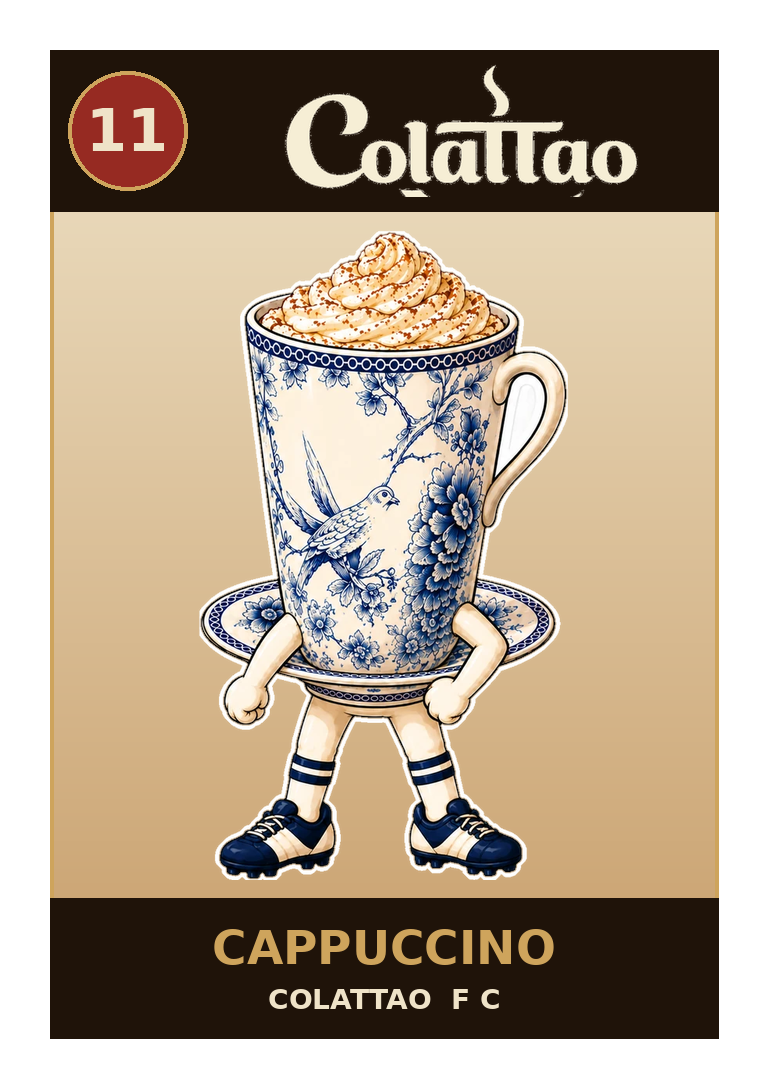
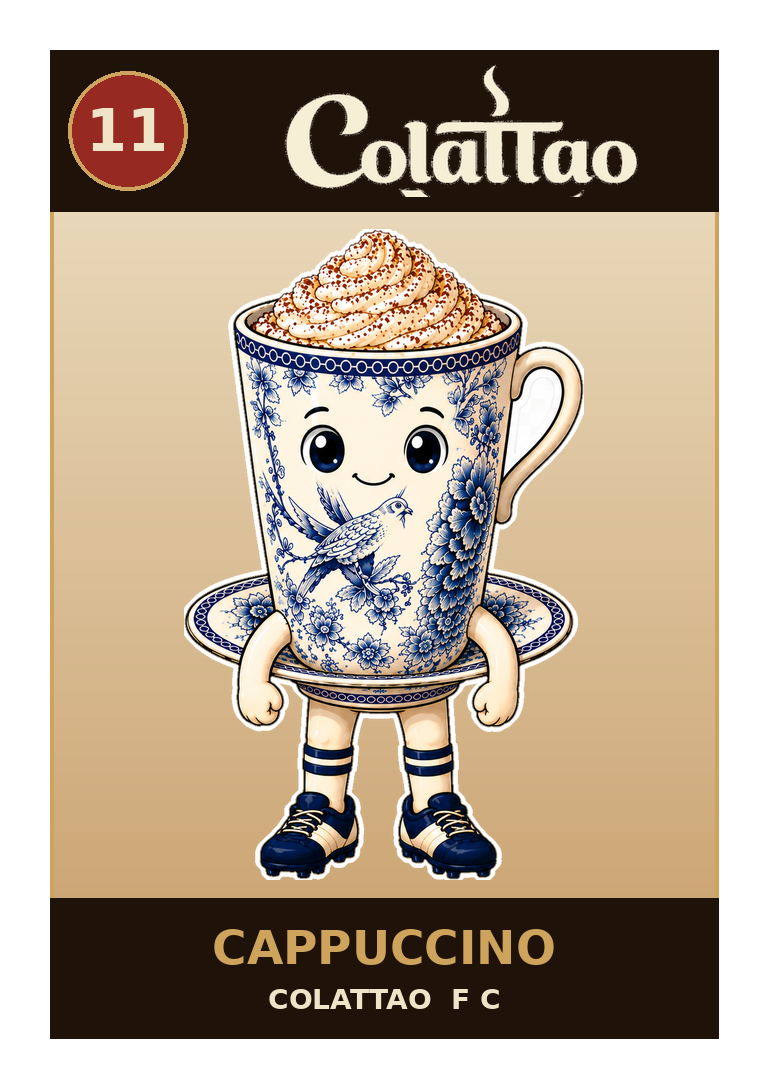
Colattao: per-level kickers in game + forward-facing album stickers
Game: add optional per-level kicker (skin.levelKickers, level-scoped texture key)
so the Colattao skin fields a different striker per difficulty — L1 Churro Latte
(default), L2 Cappuccino, L3 Matcha Lemonade (back-view game art). Falls back to
the skin's default kicker for unlisted levels; other skins unaffected.

Album: swap #11 Cappuccino and #12 Matcha Lemonade to the forward-facing,
big-eyed versions (better as collectibles); keyed to true transparency. Updates
PRINT/colattanini/ album page + the two square stickers; adds keyed sources.

https://claude.ai/code/session_01MM4wHyTuddZH2JtVRBQHVB

Changed region(s): [[0.2188, 0.1875, 0.7812, 0.8125]]

diff --git a/APP/web/src/penalty/PenaltyScene.ts b/APP/web/src/penalty/PenaltyScene.ts
@@ -110,7 +110,10 @@ export class PenaltyScene extends Phaser.Scene {
     if (assets?.background) this.load.image(this.assetKey("background"), assets.background);
     if (assets?.logo) this.load.image(this.assetKey("logo"), assets.logo);
     if (assets?.ball) this.load.image(this.assetKey("ball"), assets.ball);
-    if (assets?.kicker) this.load.image(this.assetKey("kicker"), assets.kicker);
+    // Kicker can vary per level (skin.levelKickers), so it uses a level-scoped key
+    // and falls back to the skin's default kicker for unlisted levels.
+    const kicker = this.kickerPath();
+    if (kicker) this.load.image(this.kickerKey(), kicker);
     if (assets?.keeper) this.load.image(this.assetKey("keeper"), assets.keeper);
     // Campaign behind-goal ad-zone image (Campaign Pack) — loaded independently
     // of skin assets, so it works on any skin and is gated on presence.
@@ -123,6 +126,18 @@ export class PenaltyScene extends Phaser.Scene {
   private loadedKey(kind: "background" | "logo" | "ball" | "kicker" | "keeper"): string | undefined {
     const key = this.assetKey(kind);
     return this.textures.exists(key) ? key : undefined;
+  }
+
+  // Effective kicker image for this level: per-level override if present, else the
+  // skin's default kicker. Keyed by level so different levels can load different art.
+  private kickerPath(): string | undefined {
+    return this.skin.levelKickers?.[this.level.id] ?? this.skin.assets?.kicker;
+  }
+  private kickerKey(): string {
+    return `penalty-kicker-${this.skin.id}-${this.level.id}`;
+  }
+  private loadedKickerKey(): string | undefined {
+    return this.textures.exists(this.kickerKey()) ? this.kickerKey() : undefined;
   }
 
   // Campaign-scoped key for the behind-goal ad-zone texture.
@@ -146,7 +161,7 @@ export class PenaltyScene extends Phaser.Scene {
         backgroundKey: this.loadedKey("background"),
         logoKey: this.loadedKey("logo"),
         ballKey: this.loadedKey("ball"),
-        kickerKey: this.loadedKey("kicker"),
+        kickerKey: this.loadedKickerKey(),
         keeperKey: this.loadedKey("keeper"),
         adZoneKey: this.loadedAdZoneKey(),
       },

diff --git a/APP/web/src/penalty/skin/skins.ts b/APP/web/src/penalty/skin/skins.ts
@@ -59,6 +59,13 @@ export const COLATTAO_PENALTY_SKIN: PenaltySkin = {
     keeper: "/assets/colattao/penalty/keeper-colattao-v1.webp",
     ball: "/assets/colattao/penalty/ball-colattao-v1.webp",
   },
+  // A different Colattao striker per level (back-view game art). Level 1 uses the
+  // default kicker (Churro Latte #10); levels 2 and 3 field Cappuccino and Matcha
+  // Lemonade. (Forward-facing versions of these are the album stickers, not these.)
+  levelKickers: {
+    "club-keeper": "/assets/colattao/penalty/cappuccino-colattao-v1.webp",
+    "pro-keeper": "/assets/colattao/penalty/matcha-colattao-v1.webp",
+  },
   // Crowd/pitch line sits ~0.49; the engine goal (and keeper line at 0.42) is
   // drawn on top regardless, so this is cosmetic. Light scrim keeps the daylight
   // crowd vivid while aiding UI legibility.

diff --git a/APP/web/src/penalty/types.ts b/APP/web/src/penalty/types.ts
@@ -126,6 +126,10 @@ export type PenaltySkin = {
   skinName: string;
   colors: PenaltyColors;
   assets?: PenaltySkinAssets;
+  /** Optional per-level kicker override (levelId → image path). Falls back to
+   *  assets.kicker for levels not listed — lets one skin field a different
+   *  striker per level (e.g. a product mascot per difficulty). */
+  levelKickers?: Record<string, string>;
   /** Optional positioning/scrim tuning for the background image. */
   backgroundFit?: BackgroundFit;
   /** Optional positioning for the kicker sprite. */